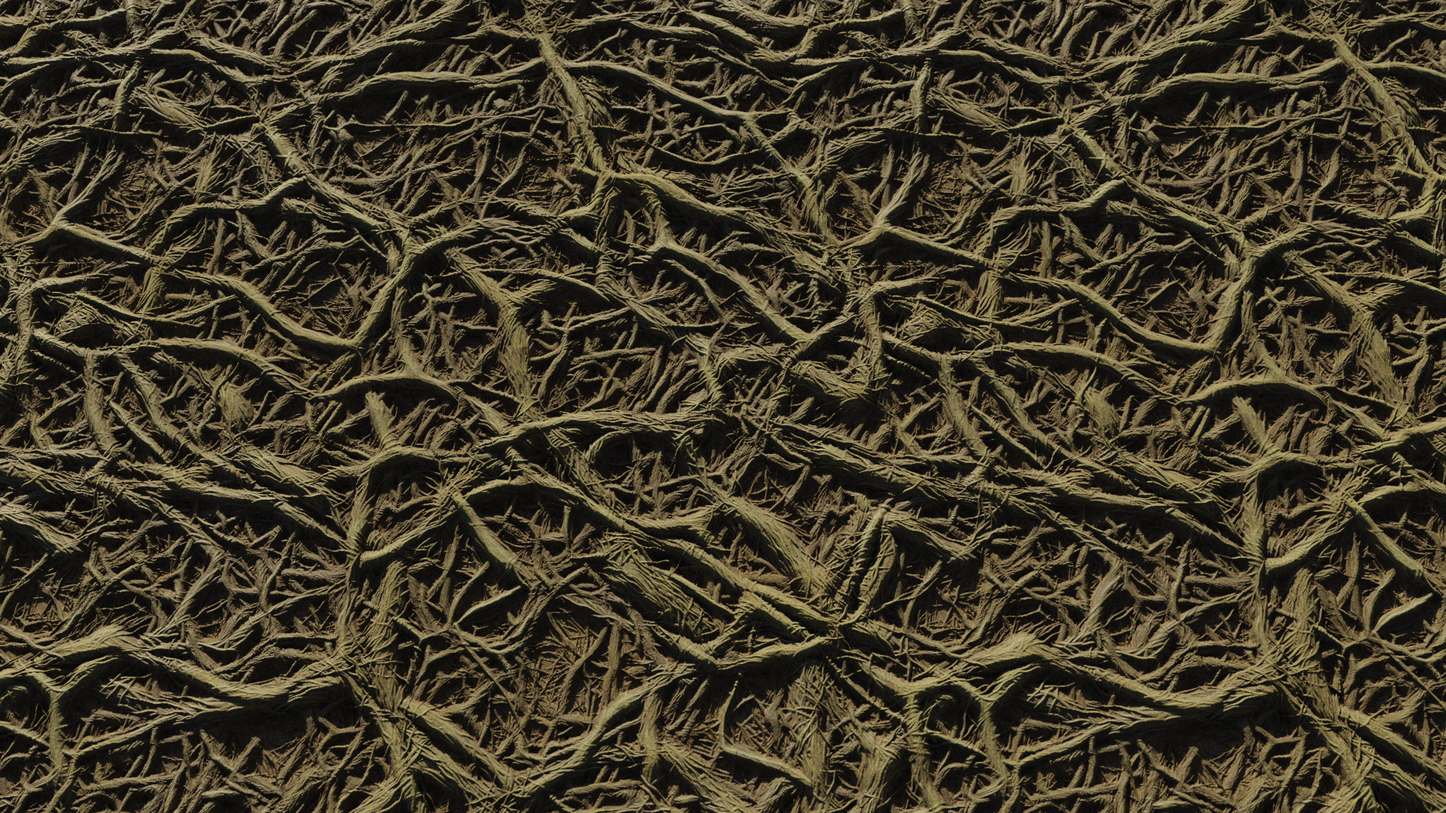
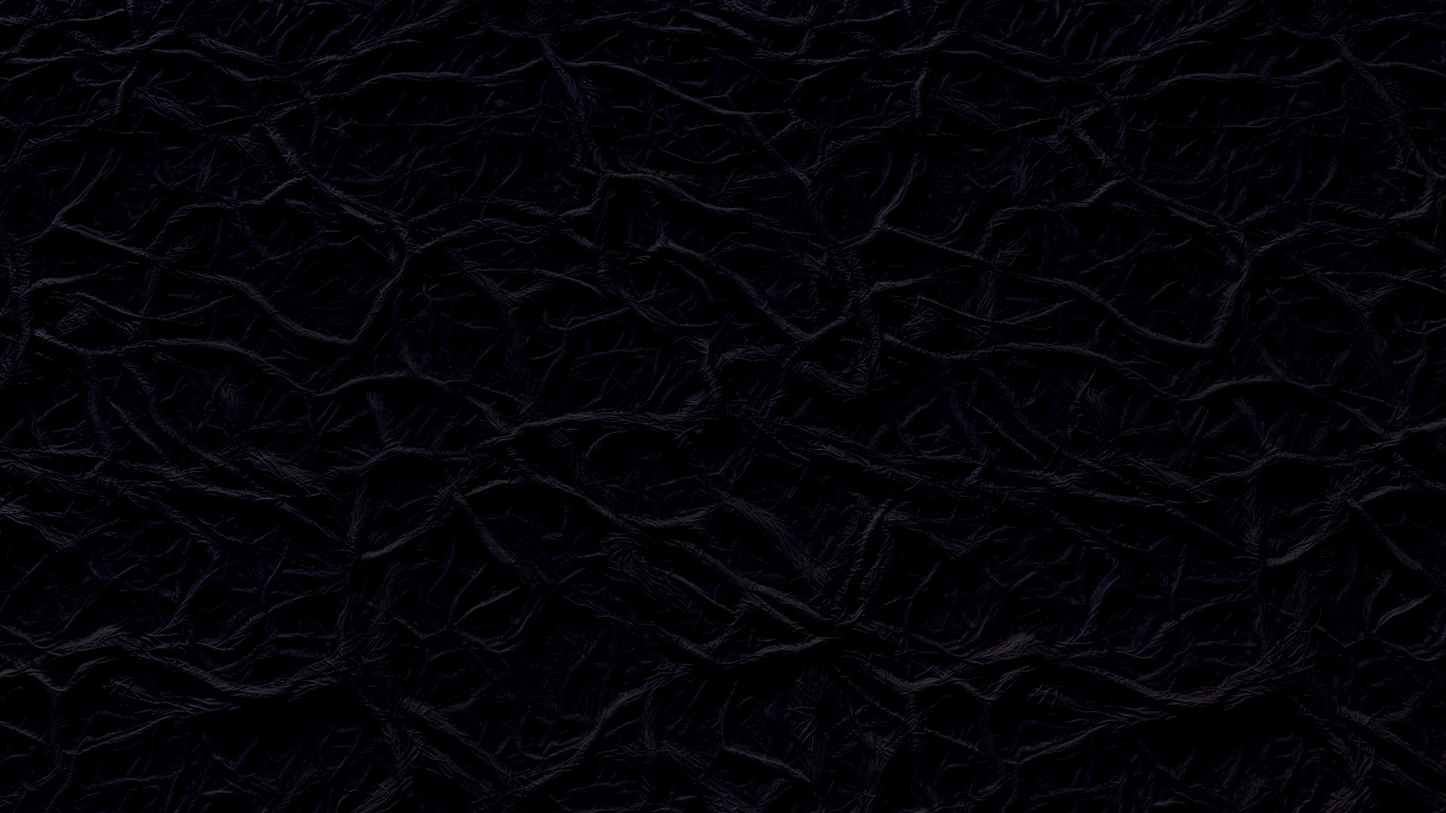
added bloom

diff --git a/src/main.cpp b/src/main.cpp
@@ -27,13 +27,13 @@ void mouse_callback(GLFWwindow *window, double xpos, double ypos);
 void scroll_callback(GLFWwindow *window, double xoffset, double yoffset);
 void processInput(GLFWwindow *window);
 void key_callback(GLFWwindow *window, int key, int scancode, int action, int mods);
-unsigned int loadTexture(const char *path);
+unsigned int loadTexture(const char *path, bool gammaCorrection);
 
 unsigned int loadCubemap(vector<string> vector1);
 
 // settings
-const unsigned int SCR_WIDTH = 1920;
-const unsigned int SCR_HEIGHT = 1080;
+const unsigned int SCR_WIDTH = 1280;
+const unsigned int SCR_HEIGHT = 720;
 
 // camera
 Camera camera(glm::vec3(0.0f,0.0f,3.0f));
@@ -105,6 +105,7 @@ int main() {
     Shader blendingShader("resources/shaders/blendingShader.vert","resources/shaders/blendingShader.frag");
     Shader skyboxShader("resources/shaders/skyboxShader.vert", "resources/shaders/skyboxShader.frag");
     Shader screenShader("resources/shaders/framebufferScreenShader.vert", "resources/shaders/framebufferScreenShader.frag");
+    Shader blurShader("resources/shaders/blurShader.vert", "resources/shaders/blurShader.frag");
 
     //loading models
     Model snitch(FileSystem::getPath("resources/objects/golden_snitch/model.obj"));
@@ -132,7 +133,7 @@ int main() {
 
     //lights setup(those that are not changing)
     PointLight pointLight;
-    pointLight.setLightComponents(glm::vec3(1.0f), glm::vec3(0.1f), glm::vec3(1.0f, 0.74f, 0.32f), glm::vec3(1.0f, 0.74f, 0.32f));
+    pointLight.setLightComponents(glm::vec3(1.0f), glm::vec3(0.1f), glm::vec3(10.0f, 7.4f, 3.2f), glm::vec3(10.0f, 7.4f, 3.2f));
     PointLight bluePointLight;
     bluePointLight.setLightComponents(glm::vec3(1.0f), glm::vec3(0.1f), glm::vec3(0.0f, 0.8f, 1.0f), glm::vec3(0.0f, 0.8f, 1.0f));
     DirLight dirLight;
@@ -357,12 +358,12 @@ int main() {
 
 
 
-    unsigned int pyramidTexDiffuse = loadTexture("resources/textures/gold_diffuse.jpg");
-    unsigned int pyramidTexSpecular = loadTexture("resources/textures/gold_specular.jpg");
-    unsigned int floorTexDiffuse = loadTexture("resources/textures/earth.jpg");
-    unsigned int floorTexSpecular = loadTexture("resources/textures/earth.jpg");
-    unsigned int cupTexDiffuse = loadTexture("resources/objects/triwizard-cup/TRIWIZARD_CUP_BC.png");
-    unsigned int cupTexSpecular = loadTexture("resources/objects/triwizard-cup/TRIWIZARD_CUP_BC.png");
+    unsigned int pyramidTexDiffuse = loadTexture("resources/textures/gold_diffuse.jpg", true);
+    unsigned int pyramidTexSpecular = loadTexture("resources/textures/gold_specular.jpg", true);
+    unsigned int floorTexDiffuse = loadTexture("resources/textures/earth.jpg", false);
+    unsigned int floorTexSpecular = loadTexture("resources/textures/earth.jpg", false);
+    unsigned int cupTexDiffuse = loadTexture("resources/objects/triwizard-cup/TRIWIZARD_CUP_BC.png", true);
+    unsigned int cupTexSpecular = loadTexture("resources/objects/triwizard-cup/TRIWIZARD_CUP_BC.png", true);
 
     vector<std::string> faces {
         FileSystem::getPath("resources/textures/skybox/right.png"),
@@ -385,8 +386,12 @@ int main() {
     skyboxShader.use();
     skyboxShader.setInt("skybox", 0);
 
+    blurShader.use();
+    blurShader.setInt("image", 0);
+
     screenShader.use();
     screenShader.setInt("screenTexture",0);
+    screenShader.setInt("bloomBlur", 1);
 
     glBindBuffer(GL_ARRAY_BUFFER,0);
     glBindVertexArray(0);
@@ -395,13 +400,18 @@ int main() {
     glGenFramebuffers(1,&framebuffer);
     glBindFramebuffer(GL_FRAMEBUFFER,framebuffer);
 
-    unsigned textureColorBuffer;
-    glGenTextures(1,&textureColorBuffer);
-    glBindTexture(GL_TEXTURE_2D,textureColorBuffer);
-    glTexImage2D(GL_TEXTURE_2D, 0, GL_RGBA16F, SCR_WIDTH, SCR_HEIGHT, 0, GL_RGB, GL_UNSIGNED_BYTE, NULL);
-    glTexParameteri(GL_TEXTURE_2D, GL_TEXTURE_MIN_FILTER, GL_LINEAR);
-    glTexParameteri(GL_TEXTURE_2D, GL_TEXTURE_MAG_FILTER, GL_LINEAR);
-    glFramebufferTexture2D(GL_FRAMEBUFFER, GL_COLOR_ATTACHMENT0, GL_TEXTURE_2D, textureColorBuffer, 0);
+    unsigned textureColorBuffers[2];
+    glGenTextures(2, textureColorBuffers);
+
+    for(unsigned int i=0; i < 2; i++) {
+        glBindTexture(GL_TEXTURE_2D, textureColorBuffers[i]);
+        glTexImage2D(GL_TEXTURE_2D, 0, GL_RGBA16F, SCR_WIDTH, SCR_HEIGHT, 0, GL_RGBA, GL_FLOAT, NULL);
+        glTexParameteri(GL_TEXTURE_2D, GL_TEXTURE_MIN_FILTER, GL_LINEAR);
+        glTexParameteri(GL_TEXTURE_2D, GL_TEXTURE_MAG_FILTER, GL_LINEAR);
+        glTexParameteri(GL_TEXTURE_2D, GL_TEXTURE_WRAP_S, GL_CLAMP_TO_EDGE);
+        glTexParameteri(GL_TEXTURE_2D, GL_TEXTURE_WRAP_T, GL_CLAMP_TO_EDGE);
+        glFramebufferTexture2D(GL_FRAMEBUFFER, GL_COLOR_ATTACHMENT0 + i, GL_TEXTURE_2D, textureColorBuffers[i], 0);
+    }
 
     unsigned renderbuffer;
     glGenRenderbuffers(1,&renderbuffer);
@@ -409,10 +419,31 @@ int main() {
     glRenderbufferStorage(GL_RENDERBUFFER, GL_DEPTH_COMPONENT, SCR_WIDTH, SCR_HEIGHT);
     glFramebufferRenderbuffer(GL_FRAMEBUFFER, GL_DEPTH_ATTACHMENT, GL_RENDERBUFFER, renderbuffer);
 
+    unsigned int attachments[2] = { GL_COLOR_ATTACHMENT0, GL_COLOR_ATTACHMENT1 };
+    glDrawBuffers(2, attachments);
+
     if (glCheckFramebufferStatus(GL_FRAMEBUFFER) != GL_FRAMEBUFFER_COMPLETE)
         cout << "!!!FRAMEBUFFER CREATING FAILED!!!" << endl;
     glBindFramebuffer(GL_FRAMEBUFFER, 0);
 
+    unsigned int pingpongFBO[2];
+    unsigned int pingpongColorbuffers[2];
+    glGenFramebuffers(2, pingpongFBO);
+    glGenTextures(2, pingpongColorbuffers);
+    for (unsigned int i = 0; i < 2; i++)
+    {
+        glBindFramebuffer(GL_FRAMEBUFFER, pingpongFBO[i]);
+        glBindTexture(GL_TEXTURE_2D, pingpongColorbuffers[i]);
+        glTexImage2D(GL_TEXTURE_2D, 0, GL_RGBA16F, SCR_WIDTH, SCR_HEIGHT, 0, GL_RGBA, GL_FLOAT, NULL);
+        glTexParameteri(GL_TEXTURE_2D, GL_TEXTURE_MIN_FILTER, GL_LINEAR);
+        glTexParameteri(GL_TEXTURE_2D, GL_TEXTURE_MAG_FILTER, GL_LINEAR);
+        glTexParameteri(GL_TEXTURE_2D, GL_TEXTURE_WRAP_S, GL_CLAMP_TO_EDGE); // we clamp to the edge as the blur filter would otherwise sample repeated texture values!
+        glTexParameteri(GL_TEXTURE_2D, GL_TEXTURE_WRAP_T, GL_CLAMP_TO_EDGE);
+        glFramebufferTexture2D(GL_FRAMEBUFFER, GL_COLOR_ATTACHMENT0, GL_TEXTURE_2D, pingpongColorbuffers[i], 0);
+        // also check if framebuffers are complete (no need for depth buffer)
+        if (glCheckFramebufferStatus(GL_FRAMEBUFFER) != GL_FRAMEBUFFER_COMPLETE)
+            std::cout << "Framebuffer not complete!" << std::endl;
+    }
 
     while (!glfwWindowShouldClose(window)) {
         float currentFrame = glfwGetTime();
@@ -501,7 +532,7 @@ int main() {
 
         //draw snitch
         glm::mat4 snitchModel = glm::mat4(1.0f);
-        snitchModel = glm::translate(snitchModel, glm::vec3(0.2f, 0.0f, -1.0f) + camera.Position);
+        snitchModel = glm::translate(snitchModel, glm::vec3(0.2f, 0.0f, 1.0f));
         if (movement) {
             snitchModel = glm::translate(snitchModel, glm::vec3(cos(glfwGetTime()) / 3.0f,
                                                                 sin(glfwGetTime()) * cos(glfwGetTime()) / 3.0f, 0.0f));
@@ -633,16 +664,37 @@ int main() {
         glDepthMask(GL_TRUE);
         glDepthFunc(GL_LESS);
 
+        //framebuffers
         glBindFramebuffer(GL_FRAMEBUFFER,0);
+
+        bool horizontal = true, first_iteration = true;
+        unsigned int amount = 10;
+        blurShader.use();
+        for (unsigned int i = 0; i < amount; i++)
+        {
+            glBindFramebuffer(GL_FRAMEBUFFER, pingpongFBO[horizontal]);
+            blurShader.setInt("horizontal", horizontal);
+            glBindTexture(GL_TEXTURE_2D, first_iteration ? textureColorBuffers[1] : pingpongColorbuffers[!horizontal]);  // bind texture of other framebuffer (or scene if first iteration)
+            glBindVertexArray(screenVAO);
+            glDrawArrays(GL_TRIANGLES,0,6);
+            horizontal = !horizontal;
+            if (first_iteration)
+                first_iteration = false;
+        }
+        glBindFramebuffer(GL_FRAMEBUFFER, 0);
+
         glDisable(GL_DEPTH_TEST);
         glClearColor(1.0f,0.0f,0.0f,1.0f);
         glClear(GL_COLOR_BUFFER_BIT);
 
         screenShader.use();
         screenShader.setBool("blurr",blurr);
-        screenShader.setFloat("exposure", 2.5f);
+        screenShader.setFloat("exposure", 0.7f);
         glBindVertexArray(screenVAO);
-        glBindTexture(GL_TEXTURE_2D,textureColorBuffer);
+        glActiveTexture(GL_TEXTURE0);
+        glBindTexture(GL_TEXTURE_2D, textureColorBuffers[0]);
+        glActiveTexture(GL_TEXTURE1);
+        glBindTexture(GL_TEXTURE_2D, pingpongColorbuffers[!horizontal]);
         glDrawArrays(GL_TRIANGLES,0,6);
 
         glfwSwapBuffers(window);
@@ -749,7 +801,7 @@ void key_callback(GLFWwindow *window, int key, int scancode, int action, int mod
     }
 }
 
-unsigned int loadTexture(char const * path)
+unsigned int loadTexture(char const * path, bool gammaCorrection)
 {
     unsigned int textureID;
     glGenTextures(1, &textureID);
@@ -758,20 +810,29 @@ unsigned int loadTexture(char const * path)
     unsigned char *data = stbi_load(path, &width, &height, &nrComponents, 0);
     if (data)
     {
-        GLenum format;
+        GLenum internalFormat;
+        GLenum dataFormat;
         if (nrComponents == 1)
-            format = GL_RED;
+        {
+            internalFormat = dataFormat = GL_RED;
+        }
         else if (nrComponents == 3)
-            format = GL_RGB;
+        {
+            internalFormat = gammaCorrection ? GL_SRGB : GL_RGB;
+            dataFormat = GL_RGB;
+        }
         else if (nrComponents == 4)
-            format = GL_RGBA;
+        {
+            internalFormat = gammaCorrection ? GL_SRGB_ALPHA : GL_RGBA;
+            dataFormat = GL_RGBA;
+        }
 
         glBindTexture(GL_TEXTURE_2D, textureID);
-        glTexImage2D(GL_TEXTURE_2D, 0, format, width, height, 0, format, GL_UNSIGNED_BYTE, data);
+        glTexImage2D(GL_TEXTURE_2D, 0, internalFormat, width, height, 0, dataFormat, GL_UNSIGNED_BYTE, data);
         glGenerateMipmap(GL_TEXTURE_2D);
 
-        glTexParameteri(GL_TEXTURE_2D, GL_TEXTURE_WRAP_S, format == GL_RGBA ? GL_CLAMP_TO_EDGE : GL_REPEAT);
-        glTexParameteri(GL_TEXTURE_2D, GL_TEXTURE_WRAP_T, format == GL_RGBA ? GL_CLAMP_TO_EDGE : GL_REPEAT);
+        glTexParameteri(GL_TEXTURE_2D, GL_TEXTURE_WRAP_S, GL_REPEAT);
+        glTexParameteri(GL_TEXTURE_2D, GL_TEXTURE_WRAP_T, GL_REPEAT);
         glTexParameteri(GL_TEXTURE_2D, GL_TEXTURE_MIN_FILTER, GL_LINEAR_MIPMAP_LINEAR);
         glTexParameteri(GL_TEXTURE_2D, GL_TEXTURE_MAG_FILTER, GL_LINEAR);
 
@@ -785,6 +846,7 @@ unsigned int loadTexture(char const * path)
 
     return textureID;
 }
+
 
 unsigned int loadCubemap(vector<string> faces)
 {
